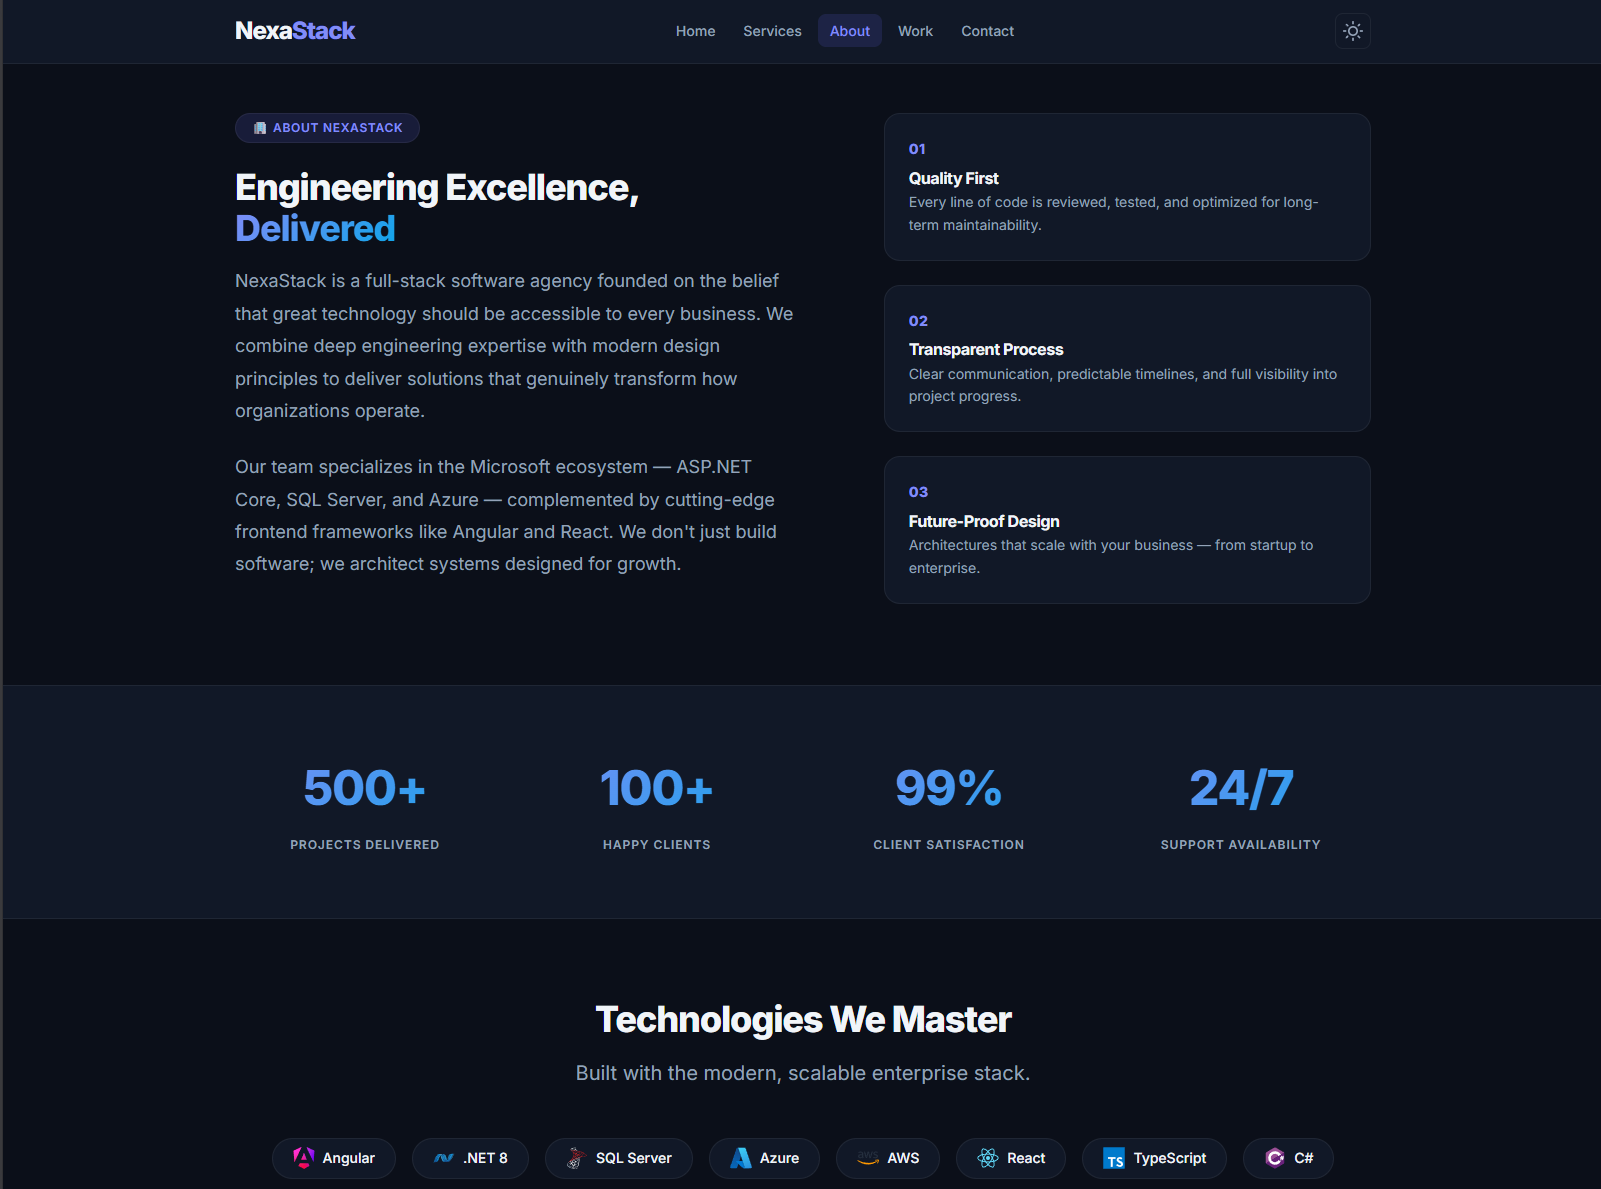
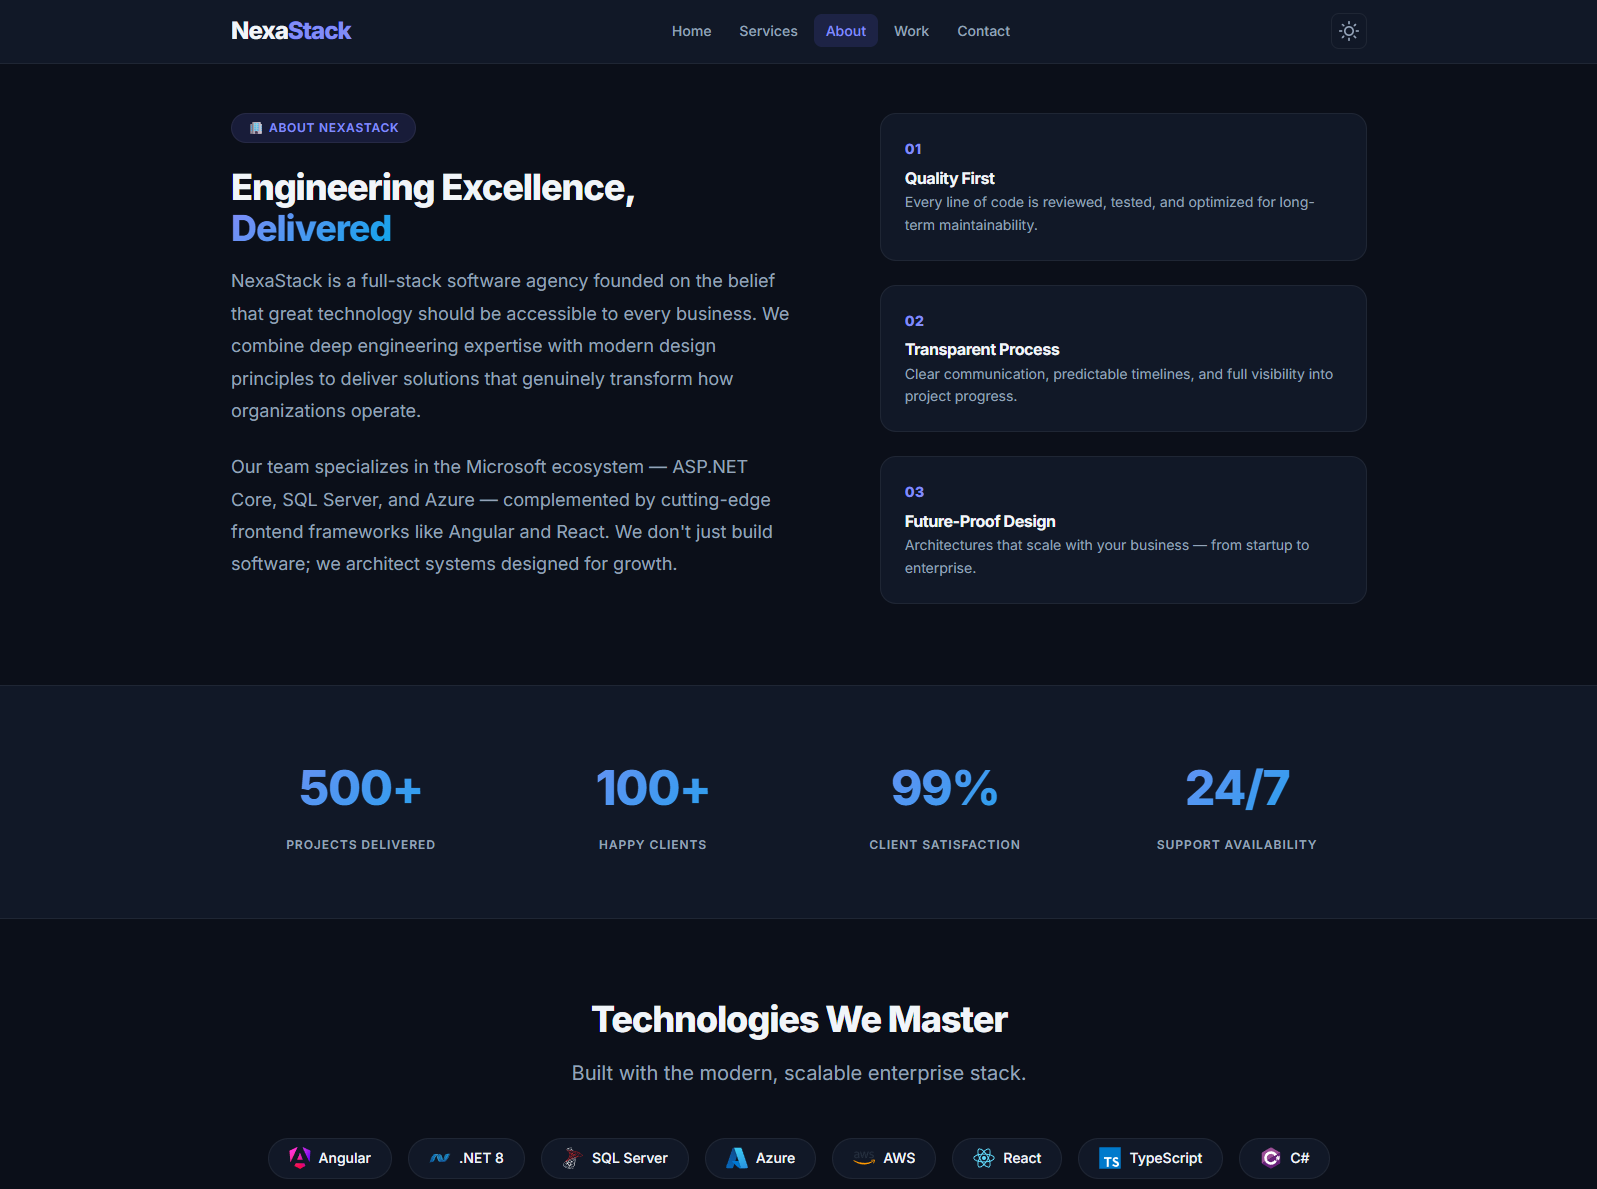
fix: improve startup rendering, theme initialization, and mobile UX

diff --git a/nexastack-client/src/index.html b/nexastack-client/src/index.html
@@ -5,6 +5,24 @@
   <title>NexaStack — We Build Digital Products That Scale</title>
   <meta name="description" content="NexaStack is a full-stack software agency specializing in Angular, .NET, and cloud-native enterprise solutions.">
   <base href="/">
+  <script>
+    // Execute immediately before browser paint or Angular bootstrap
+    if (typeof window !== 'undefined') {
+      // 1. Prevent native scroll jumping
+      if ('scrollRestoration' in window.history) {
+        window.history.scrollRestoration = 'manual';
+      }
+      window.scrollTo(0, 0);
+
+      // 2. Prevent white flash by applying theme synchronously
+      try {
+        const savedTheme = localStorage.getItem('theme');
+        if (savedTheme === 'dark' || (!savedTheme && window.matchMedia('(prefers-color-scheme: dark)').matches)) {
+          document.documentElement.setAttribute('data-theme', 'dark');
+        }
+      } catch (e) {}
+    }
+  </script>
   <meta name="viewport" content="width=device-width, initial-scale=1">
   <meta name="theme-color" content="#4F46E5">
   <link rel="preconnect" href="https://fonts.googleapis.com">

diff --git a/nexastack-client/src/app/core/components/toast/toast.ts b/nexastack-client/src/app/core/components/toast/toast.ts
@@ -1,4 +1,4 @@
-import { Component, ChangeDetectionStrategy, OnInit, ChangeDetectorRef } from '@angular/core';
+import { Component, ChangeDetectionStrategy, ChangeDetectorRef } from '@angular/core';
 import { CommonModule } from '@angular/common';
 import { ToastService, Toast } from '../../services/toast.service';
 import { takeUntilDestroyed } from '@angular/core/rxjs-interop';
@@ -102,15 +102,13 @@ import { takeUntilDestroyed } from '@angular/core/rxjs-interop';
     }
   `]
 })
-export class ToastComponent implements OnInit {
+export class ToastComponent {
   toast: Toast = { message: '', type: 'info', visible: false };
 
   constructor(
     private readonly toastService: ToastService,
     private readonly cdr: ChangeDetectorRef
-  ) {}
-
-  ngOnInit() {
+  ) {
     this.toastService.toast$.pipe(takeUntilDestroyed()).subscribe(t => {
       this.toast = t;
       this.cdr.markForCheck();

diff --git a/nexastack-client/src/app/app.config.ts b/nexastack-client/src/app/app.config.ts
@@ -1,5 +1,5 @@
 import { ApplicationConfig, provideBrowserGlobalErrorListeners } from '@angular/core';
-import { provideRouter } from '@angular/router';
+import { provideRouter, withInMemoryScrolling } from '@angular/router';
 import { provideHttpClient, withInterceptors } from '@angular/common/http';
 import { errorInterceptor } from './core/interceptors/error.interceptor';
 
@@ -8,7 +8,10 @@ import { routes } from './app.routes';
 export const appConfig: ApplicationConfig = {
   providers: [
     provideBrowserGlobalErrorListeners(),
-    provideRouter(routes),
+    provideRouter(routes, withInMemoryScrolling({
+      scrollPositionRestoration: 'top',
+      anchorScrolling: 'enabled'
+    })),
     provideHttpClient(withInterceptors([errorInterceptor]))
   ]
 };

diff --git a/nexastack-client/src/app/app.scss b/nexastack-client/src/app/app.scss
@@ -3,4 +3,5 @@
   flex: 1;
   display: flex;
   flex-direction: column;
+  min-height: calc(100vh - 4rem); /* Push footer below the fold while lazy-loading */
 }

diff --git a/nexastack-client/src/app/core/components/footer/footer.scss b/nexastack-client/src/app/core/components/footer/footer.scss
@@ -84,6 +84,7 @@
   color: #94a3b8;
   font-size: var(--font-size-sm);
   line-height: 1.6;
+  word-break: break-word;
 }
 
 /* Bottom Bar */

diff --git a/nexastack-client/src/app/features/contact/contact-form/contact-form.scss b/nexastack-client/src/app/features/contact/contact-form/contact-form.scss
@@ -86,6 +86,7 @@
   color: var(--text-base);
   font-weight: 600;
   line-height: 1.4;
+  word-break: break-word;
 }
 
 /* ─── Contact Form Panel ─── */